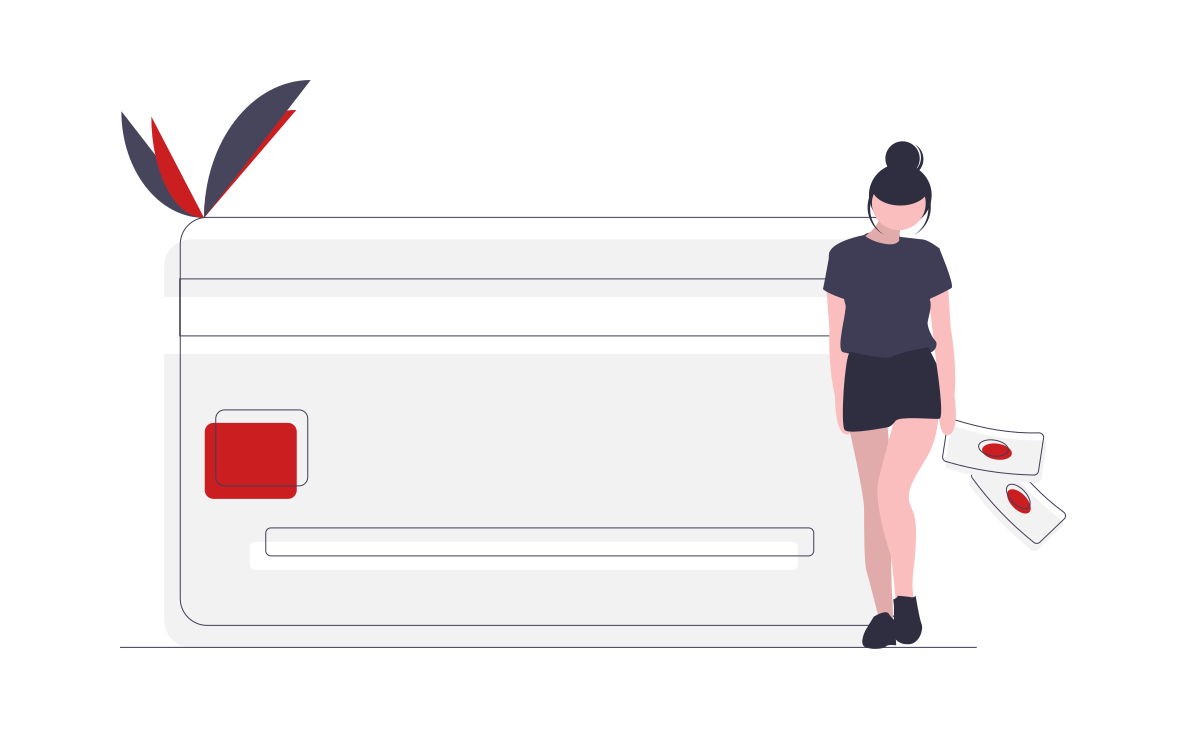
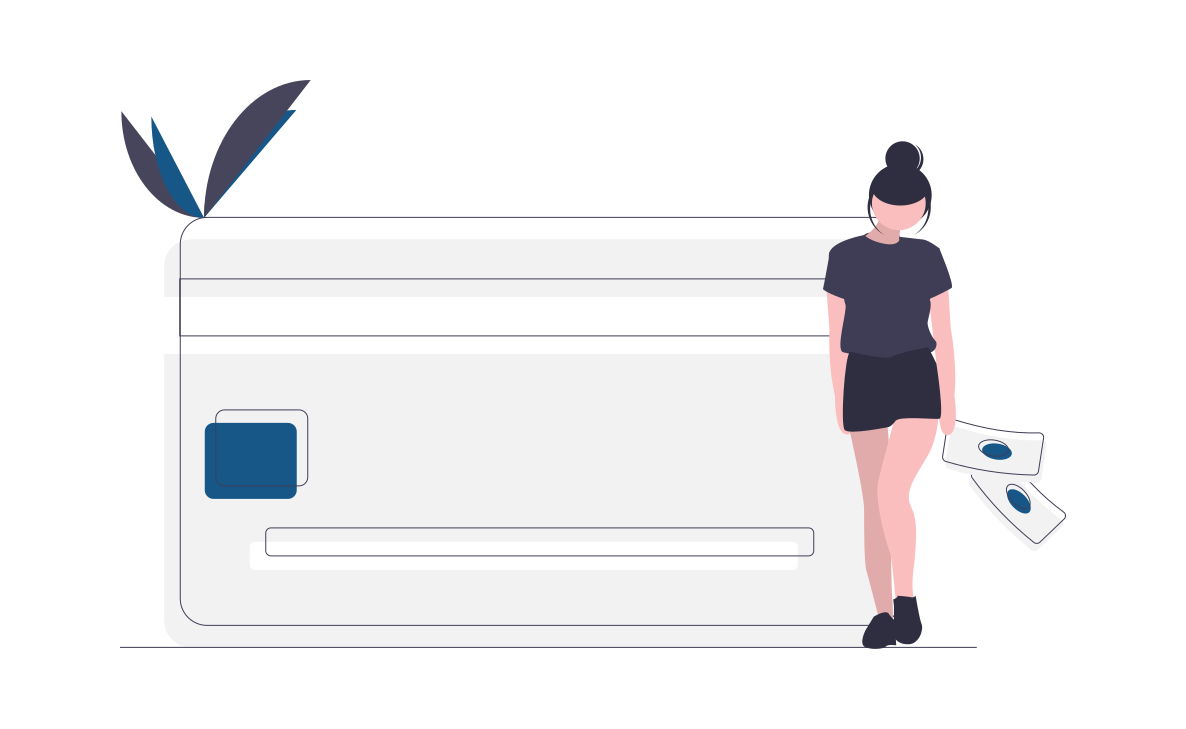
bugfix: fixed image colours to blue

diff --git a/client-server/src/app/components/map/map.component.ts b/client-server/src/app/components/map/map.component.ts
@@ -44,7 +44,7 @@ export class MapComponent implements OnInit {
         map.addControl(new mapboxgl.NavigationControl());
 
         // Add map markers
-        var marker = new mapboxgl.Marker({ color: '#FF0000' })
+        var marker = new mapboxgl.Marker({ color: '#0000FF' })
           .setLngLat([position.coords.longitude, position.coords.latitude])
           .setPopup(new mapboxgl.Popup().setHTML('<p>You are here!</p>'))
           .addTo(map);
@@ -54,7 +54,7 @@ export class MapComponent implements OnInit {
           var GEOJson = JSON.parse(index.GEO_location.replace(/\'/g, '"'));
 
           if (index.GEO_location != 'blank' && GEOJson.long != undefined) {
-            var marker = new mapboxgl.Marker({ color: '#CB1E21' })
+            var marker = new mapboxgl.Marker({ color: '#165788' })
               .setLngLat([GEOJson.long, GEOJson.lat])
               .setPopup(
                 new mapboxgl.Popup().setHTML(

diff --git a/client-server/src/app/components/footer/footer.component.html b/client-server/src/app/components/footer/footer.component.html
@@ -31,12 +31,22 @@
     <br />
     <hr style="background-color: grey;" />
     <div class="footer-bottom-content">
-      <a class="footer-links" href="#" target="_blank">Terms of Service</a>
-      <a class="footer-links" href="#" target="_blank">Privacy Policy</a>
-      <p>
-        <br />
-        © 2020 Team Aqua
-      </p>
+      <div class="row">
+        <div class="col">
+          <img
+            src="assets/images/find_dining_credits.png"
+            class="footer-logo"
+          />
+          <p>
+            <br />
+            © 2020 Team Aqua
+          </p>
+        </div>
+        <div class="col">
+          <a class="footer-links" href="#" target="_blank">Terms of Service</a>
+          <a class="footer-links" href="#" target="_blank">Privacy Policy</a>
+        </div>
+      </div>
     </div>
   </div>
 </footer>

diff --git a/client-server/src/styles.scss b/client-server/src/styles.scss
@@ -1,18 +1,16 @@
 @import "~@angular/material/theming";
 @include mat-core();
 
-$client-theme-primary: mat-palette($mat-red);
-$client-theme-accent: mat-palette($mat-pink, A200, A100, A400);
+$client-theme-primary: mat-palette($mat-blue);
+$client-theme-accent: mat-palette($mat-blue, A200, A100, A400);
 $client-theme-theme: mat-light-theme(
   $client-theme-primary,
   $client-theme-accent
 );
 @include angular-material-theme($client-theme-theme);
 
-// $primary-color: rgb(155, 50, 50);
 $primary-color: rgb(22, 87, 136);
 $secondary-color: rgb(0, 153, 204);
-// $secondary-color: rgb(189, 96, 96);
 $dark-color: rgb(7, 27, 48);
 $grey-color: #dddddd;
 

diff --git a/client-server/src/app/components/footer/footer.component.scss b/client-server/src/app/components/footer/footer.component.scss
@@ -12,7 +12,7 @@ footer {
   color: $footer-text-color;
 
   @media screen and (max-width: 700px) {
-    margin: 30px;
+    margin: 20px;
   }
 }
 
@@ -37,4 +37,13 @@ footer {
 
 .footer-icons:hover {
   color: white;
+}
+
+.footer-logo {
+  width: 200px;
+  height: auto;
+
+  @media screen and (max-width: 700px) {
+    width: 100px;
+  }
 }

diff --git a/client-server/src/app/app.component.html b/client-server/src/app/app.component.html
@@ -1,5 +1,5 @@
 <ng-http-loader
-  [backgroundColor]="'#CB1E21'"
+  [backgroundColor]="'#165788'"
   spinner="sk-three-bounce"
 ></ng-http-loader>
 
